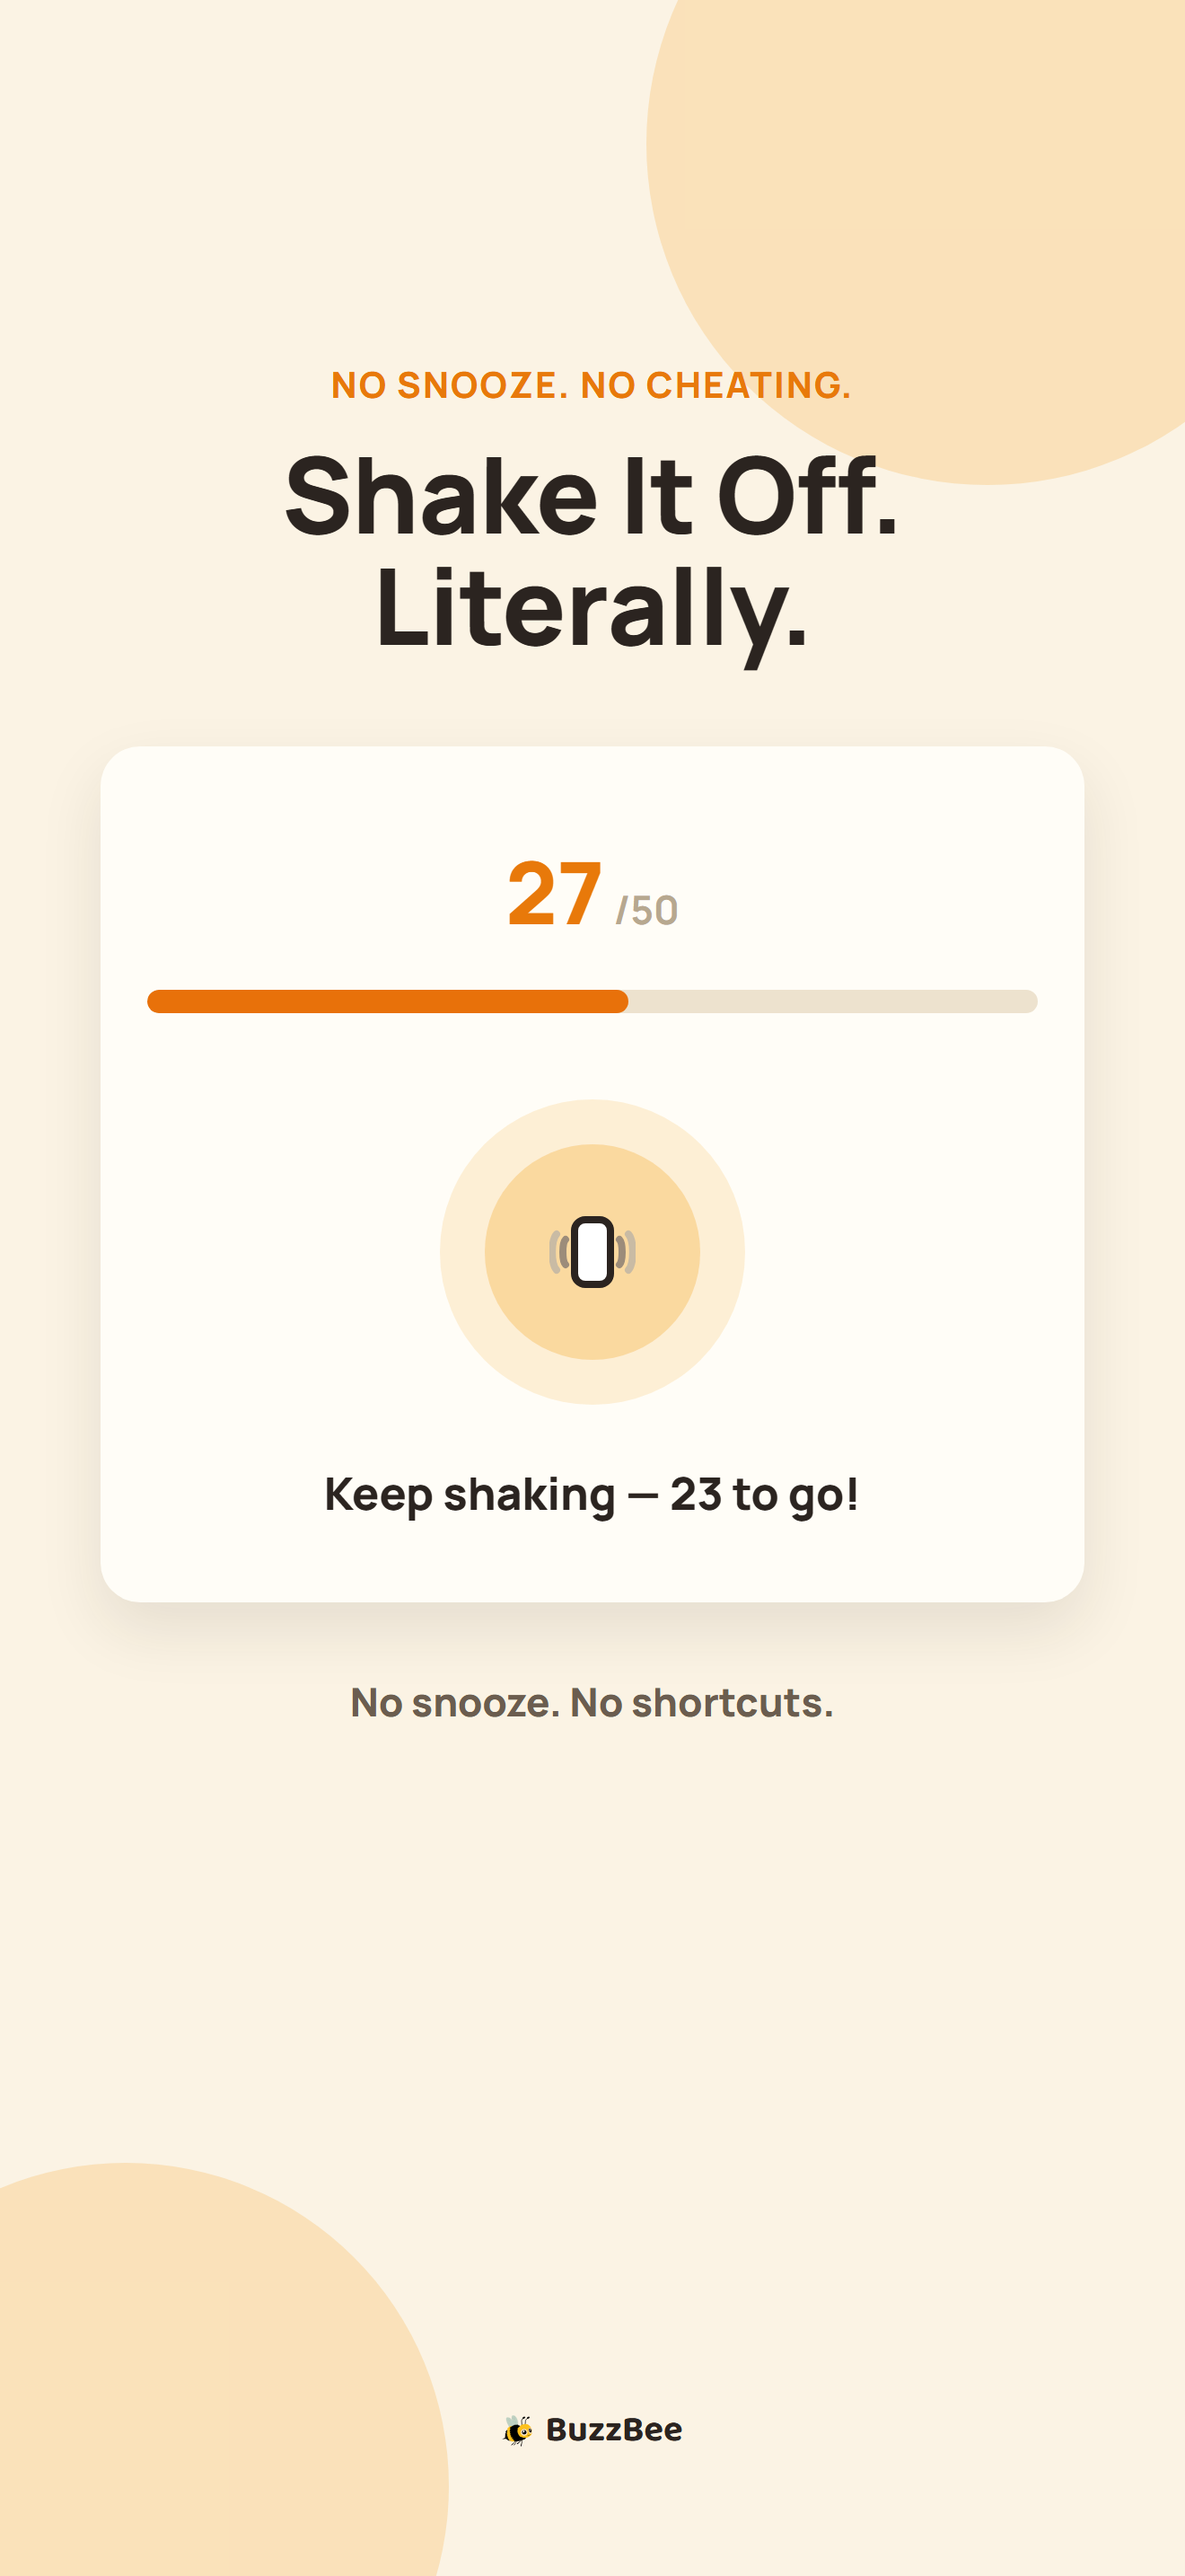
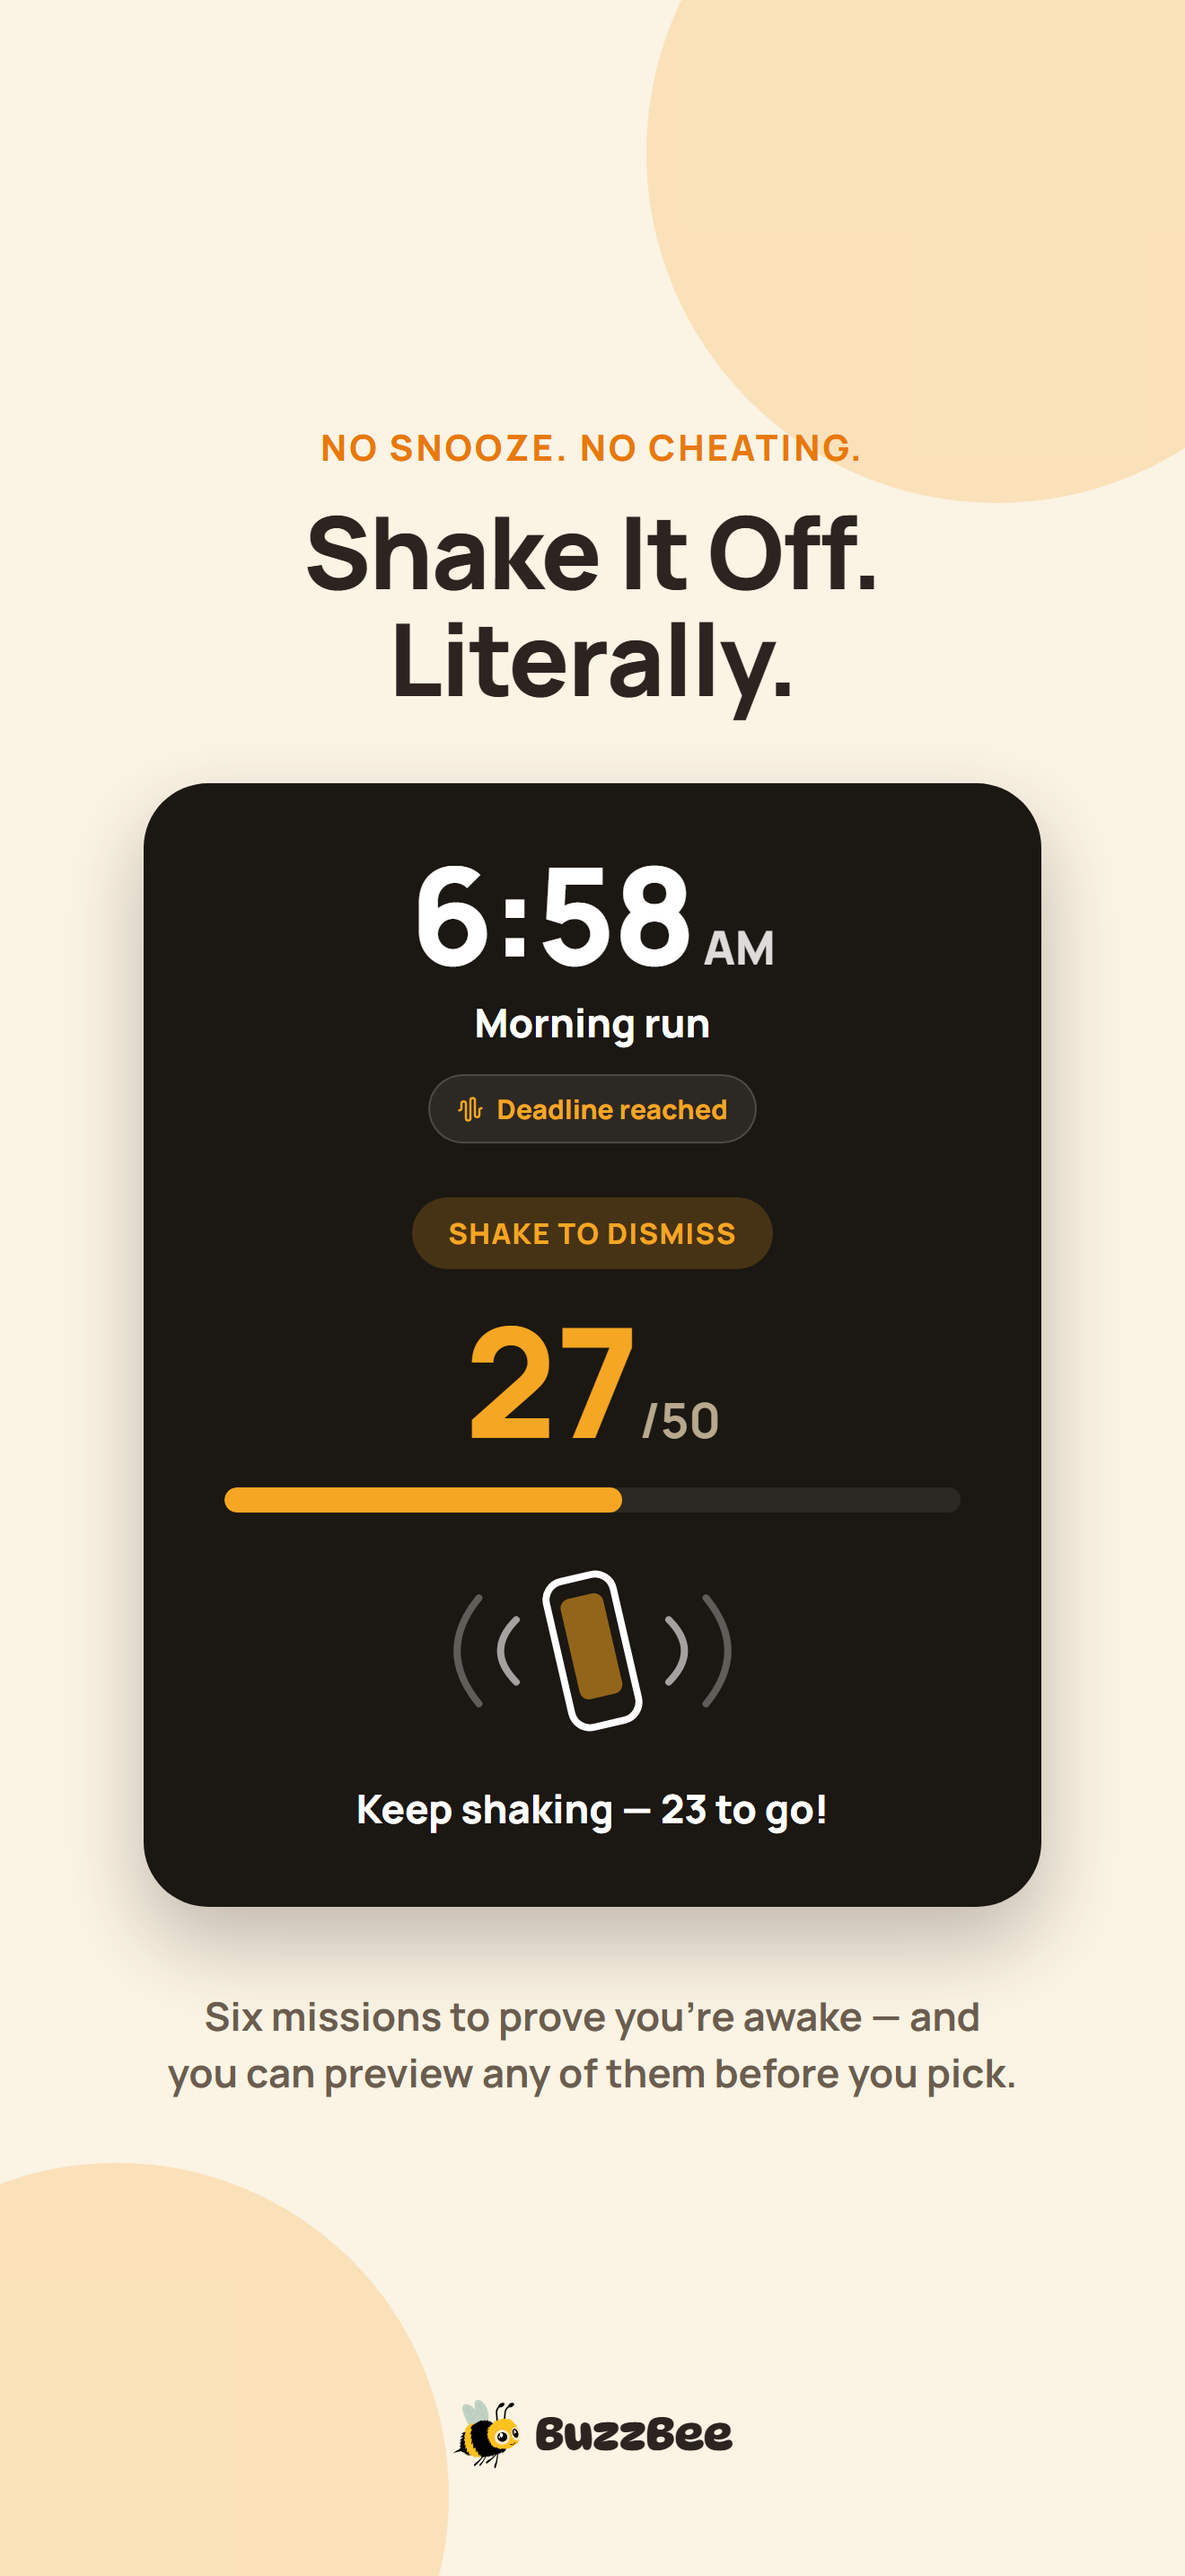
updated screenshot

diff --git a/app-store/APP-REVIEW-GUIDE.md b/app-store/APP-REVIEW-GUIDE.md
@@ -132,7 +132,7 @@ this cycle to disclose the new recording feature — see §3).
 | Microphone usage string doesn't match actual behavior | 5.1.1, 2.3.1 (Accuracy) | `microphonePermission` in `app.json` discloses both live-use cases (Clap/Buzzzzz missions, Record Your Own Alarm Sound) and that recordings stay on-device. A stale clause referencing "Ambient Awareness" (a feature designed, then fully removed from the app before this build) was caught and cut from the string during this review-doc pass — the string no longer describes anything the app doesn't do. Verify the *submitted build* actually contains this string (rebuild after any later app.json edit). |
 | `"audio"` background mode declared without an obvious matching feature | 2.5.4 (Background modes must match use) | Justified in App Review notes: keeps an in-progress ring's sound looping while backgrounded, and a near-silent keep-alive session keeps the app's own JS timers (evening calendar check, alarm trigger loop) running while backgrounded rather than suspended. Nothing networked. |
 | Reviewer's test device/simulator is on an iOS version below 26.1 | 2.1 (App Completeness — app fails to install) | Called out explicitly and first in the App Review notes: **iOS 26.1+ required**, because AlarmKit doesn't exist before it. |
-| Placeholder/stale screenshots or metadata | 2.3 (Accurate metadata) | `app-store/screenshots-6.9-raw/` are real device captures; `app-store/promo-6.9/` are original marketing graphics built from the app's real logo/colors/copy (not screenshots, but not misleading either — every feature they depict is real). **Currently stale**: the whole UI went through a Liquid Glass redesign, a full icon-set swap to lucide, a native-tab-bar migration, and a redesigned ringing/Choose Mission flow since these were captured — re-shoot the raw set before submitting, don't reuse them as-is. |
+| Placeholder/stale screenshots or metadata | 2.3 (Accurate metadata) | `app-store/screenshots-6.9-raw/` are real device captures; `app-store/promo-6.9/` are original marketing graphics (not screenshots). **Promo slides: current** — regenerated 2026-09-23 via `promo-src/build.mjs`. That pass removed two false claims ("senses you're already stirring" / "finds the moment" on 02 and 07 — Wake Window is a fixed quiet-to-loud ramp, no sensing), dropped the removed Task After You're Awake feature from 04, moved 05 onto the real dark ringing screen, and softened 08 so it no longer implies a custom recording plays on the closed-app lock-screen alert (iOS only allows bundled sounds there). **Raw screenshots: still stale** — the UI went through a Liquid Glass redesign, a lucide icon swap, a native-tab-bar migration, and a redesigned ringing/Choose Mission flow since they were captured; re-shoot before submitting. |
 | No account / no data collection claims don't match reality | 5.1.1, App Privacy nutrition label | True as of this writing — no login, no server, no analytics SDK anywhere in the dependency tree. Nutrition label should read "Data Not Collected" across the board; re-verify this table if a backend/account feature is ever added later (see PLAN.md's deferred Pro/group-sharing tier, which is explicitly not part of this build). |
 
 ## 4. App Privacy nutrition label (App Store Connect)

diff --git a/app-store/README.md b/app-store/README.md
@@ -15,11 +15,14 @@ All images are 1320×2868 (Apple's required "6.9-inch Display" size).
 
 - `screenshots-6.9-raw/` — actual device screenshots of the real app (onboarding + a real
   ringing screen), already at the correct resolution as captured.
-- `promo-6.9/` — original promotional graphics for the App Store product page, built from the
-  app's real logo, icon set, and theme colors (not screenshots) — a brand/welcome slide, Smart
-  Wake Window explainer, sleep-science hook, smart-features overview, the 6 dismiss missions,
-  a reliability/hard-deadline slide, a fixed-time-vs-Smart-Wake comparison, and a Record Your
-  Own Alarm Sound slide.
+- `promo-6.9/` — original promotional graphics for the App Store product page (not
+  screenshots): 01 brand, 02 Wake Window, 04 smart features, 05 dismiss missions (Shake, on the
+  real dark ringing screen), 06 reliability/AlarmKit, 07 fixed-time vs. Wake Window, 08 Record
+  Your Own Alarm Sound. Slides 02–08 are generated by `promo-src/build.mjs` — edit the copy
+  there and re-run `node app-store/promo-src/build.mjs` (needs Chrome or Edge installed)
+  rather than editing PNGs by hand. It uses the app's own fonts and lucide icons, so it stays
+  in step with the shipped UI. 01 is a static image and isn't generated. `test.png` is an old
+  draft — don't upload it.
 
 Upload whichever set (or mix) you prefer to App Store Connect's 6.9" Display screenshot slot.
 App Store Connect only strictly requires screenshots for the largest size in the iPhone
